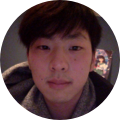
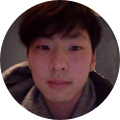
smudged

Changed region(s): [[0.775, 0.4, 0.95, 0.675], [0.95, 0.375, 0.975, 0.4]]

diff --git a/index.html b/index.html
@@ -1,1 +1,3 @@
-<!DOCTYPE html><html><meta http-equiv="x-ua-compatible" content="ie=edge"><title>Hi, nice to meet you!</title><meta name="description" content="Andy's personal blog"><meta name="viewport" content="width=device-width, initial-scale=1"><link rel="stylesheet" href="dest/styles/main.css"><body><header class="landing"><div class="headline"><h1>Andy Tung</h1><h5 class="tagline"><span class="tagline-item">Leader.</span><span class="tagline-item">Hacker.</span><span class="tagline-item">Engineer.</span></h5><div class="headline-icon"><a class="icon-item" href="https://github.com/andytung/"><img class="icon-image" src="./dest/images/github.svg"></a><a class="icon-item" href="https://linkedin.com/in/andy-tung/"><img class="icon-image" src="./dest/images/linkedin.svg"></a><a class="icon-item" href="https://www.instagram.com/andyytung/"><img class="icon-image" src="./dest/images/instagram.svg"></a><a class="icon-item" href="https://medium.com/@andytung"><img class="icon-image" src="./dest/images/medium.svg"></a></div></div></header><script src="dest/scripts/index.js"></script></body></html>
+<!DOCTYPE html><html><meta http-equiv="x-ua-compatible" content="ie=edge"><title>Hi, nice to meet you!</title><meta name="description" content="Andy's personal blog"><meta name="viewport" content="width=device-width, initial-scale=1"><link rel="stylesheet" href="dest/styles/main.css"><body><header class="landing"><div class="headline"><h1>Andy Tung</h1><h5 class="tagline"><span class="tagline-item">Leader.</span><span class="tagline-item">Hacker.</span><span class="tagline-item">Engineer.</span></h5><div class="headline-icon"><a class="icon-item" href="https://github.com/andytung/"><img class="icon-image" src="./dest/images/github.svg"></a><a class="icon-item" href="https://linkedin.com/in/andy-tung/"><img class="icon-image" src="./dest/images/linkedin.svg"></a><a class="icon-item" href="https://www.instagram.com/andyytung/"><img class="icon-image" src="./dest/images/instagram.svg"></a><a class="icon-item" href="https://medium.com/@andytung"><img class="icon-image" src="./dest/images/medium.svg"></a></div></div></header><div class="about"><img class="avatar" src="./dest/images/avatar.png"><p class="introduction">Hi, I am a computer engineer
+at the University of British Columbia.
+I find joy in taking lines of code and crafting them into something beautiful.</p></div><script src="dest/scripts/index.js"></script></body></html>

diff --git a/dest/styles/main.css b/dest/styles/main.css
@@ -43,6 +43,10 @@ h5 {
     font-size: 16px;
 }
 
+p {
+    font-size: 14px;
+}
+
 .landing {
     display: -webkit-box;
     display: -ms-flexbox;
@@ -97,6 +101,28 @@ h5 {
 .icon-image {
     width: 24px;
     height: 24px;
+}
+
+.about {
+    display: table;
+    margin: 24px;
+}
+
+.introduction {
+    margin: auto;
+    text-align: left;
+    vertical-align: middle;
+}
+
+.avatar {
+    width: 120px;
+    height: 120px;
+    margin: auto 0 auto 15px;
+    float: right;
+    -webkit-shape-outside: circle(50%);
+            shape-outside: circle(50%);
+    -webkit-clip-path: circle(50%);
+            clip-path: circle(50%);
 }
 
 /* Extra Small Devices, Phones 480px */

diff --git a/src/styles/main.css b/src/styles/main.css
@@ -49,6 +49,10 @@ h5 {
     font-size: 16px;
 }
 
+p {
+    font-size: 14px;
+}
+
 .landing {
     display: flex;
     flex-direction: column;
@@ -85,6 +89,26 @@ h5 {
 .icon-image {
     width: 24px;
     height: 24px;
+}
+
+.about {
+    display: table;
+    margin: 24px;
+}
+
+.introduction {
+    margin: auto;
+    text-align: left;
+    vertical-align: middle;
+}
+
+.avatar {
+    width: 120px;
+    height: 120px;
+    margin: auto 0 auto 15px;
+    float: right;
+    shape-outside: circle(50%);
+    clip-path: circle(50%);
 }
 
 /* Extra Small Devices, Phones 480px */
